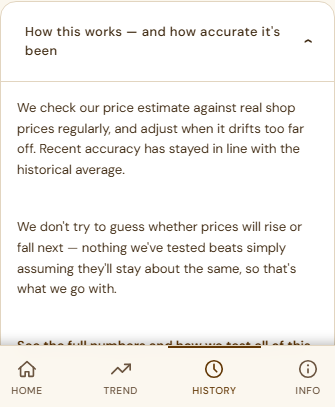
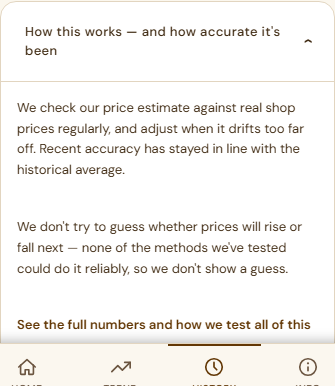
docs(audit): update rewritten-string table for the "usually" honesty fix
Follow-up to 1c26fff9 (i18n.js): reliabilityCoverage and
calibrationConfidenceAppend no longer say "usually" before a floored
fraction (it contradicts a fraction below 6/10), and
accSummaryDirectionOff no longer implies "assume no change" was the
tested baseline -- the direction gate's real comparison is "always
guess up" (ADR 019). Updates the audit doc's table for all three keys
and re-captures the three after-screenshots whose text changed.

diff --git a/docs/PLAIN_LANGUAGE_AUDIT.md b/docs/PLAIN_LANGUAGE_AUDIT.md
@@ -65,10 +65,11 @@ HI strings flagged for native review.**
 | `i18n.js` `footerBody` (EN+HI) | "...(worst case recently ~Xh; n=41, as of DATE)" | n= | same fix as `firstVisitText` |
 | `i18n.js` `volNoteElevated` (EN) | "Gold has been more volatile than usual lately — about ±₹X over 5 days." | volatility/volatile | "Gold has been swinging more than usual lately — about ±₹X over 5 days." |
 | `i18n.js` `volNoteCalm` (EN) | "Gold has been calmer than usual lately..." | volatility/volatile (key concept, adjacent to the elevated/calm pair) | "Gold has been steadier than usual lately..." |
-| `i18n.js` `reliabilityCoverage` (EN) | "Our estimated range has been right {pct}% of the time (checked {n} times)." | matches the `"coverage X% (n=Y)"` pattern | "Our estimated range has usually been right — about N times out of 10 so far." (floored, never overstates — see `fractionOutOf10Phrase`) |
+| `i18n.js` `reliabilityCoverage` (EN) | "Our estimated range has been right {pct}% of the time (checked {n} times)." | matches the `"coverage X% (n=Y)"` pattern | "Our estimated range has been right about N times out of 10 so far." (floored, never overstates — see `fractionOutOf10Phrase`) |
 | `i18n.js` `calibrationConfidenceAppend` (EN) | "...about {coverage}% of the time so far (n={n} weeks measured)." | n= | "...about N times out of 10 so far." (n dropped; exact % and n preserved on how-we-know.html's new "Band accuracy" section) |
 | `i18n.js` `errCouldntLoadMethodology` (EN) | "Couldn't load model details — check your connection and reload." | model | "Couldn't load this section — check your connection and reload." |
 | `i18n.js` `errCouldntLoadMethodology` (HI) | "मॉडल की जानकारी लोड नहीं हो पाई..." | model (मॉडल, loanword) + EN meaning changed | Removed, flagged HI-needs-native-review (falls back to reworded English) |
+| `i18n.js` `accSummaryDirectionOff` (EN) | "We don't try to guess whether prices will rise or fall next — nothing we've tested beats simply assuming they'll stay about the same, so that's what we go with." | (honesty fix, not a banned term) | "We don't try to guess whether prices will rise or fall next — none of the methods we've tested could do it reliably, so we don't show a guess." — the original wording implied "assume no change" was itself a tested, winning method; the real baseline the direction gate compares against is "always guess up" (ADR 019), not "assume no change" (that's the separate price-range method). Same correction class as the two rows below: don't let a rounding/summarizing rewrite assert something the underlying data doesn't support. |
 | `i18n.js` 37× `meth*` keys (EN+HI) | full methodology breakdown (verdict rule, next-day-range p-value, direction-signal internals, drift stats) | model, p-value, MAE, coverage, percentile-adjacent framing | Relocated verbatim to `how-we-know-strings.js` (its own exempt catalogue) — same wording, same numbers, just off the main page. Main page's accordion body now renders 2-3 short plain sentences (`accSummaryIntro`/`accSummaryDirectionOff`, reusing the already-plain `reliabilityDriftOnTrack/Watch/Retrain`) plus a link |
 | `README.md` "How fresh the data is" bullet | "...typical gap between updates was 4.6 (n=41, as of DATE) hours." | n= | "...typical gap between updates was 4.6 (as of DATE) hours." — `\|n=n` modifier dropped from the METRIC marker |
 | `README.md` "A likely range, not just one number" bullet | "...it has actually contained the real rate 70.9% (n=86, 95% CI [60.6%, 79.5%], as of DATE) of the time..." | n=, CI | "...it has actually landed inside the range about 7 times out of 10 so far..." via the new `frac10` METRIC format, plus a link to How we know for the exact numbers |
@@ -165,3 +166,27 @@ Both independently implement the identical rounding rule (floor to the
 nearest 10%, e.g. 78% → "7 times out of 10", never "8") since one runs in a
 browser and the other in a docs-build script with no runtime in common; kept
 in sync by policy (this document), not shared code.
+
+## Follow-up correction (2026-09-23, same day) — plain wording can assert too much, not just too little
+
+A second pass caught two ways the plain-language rewrite itself had drifted
+from what the data actually supports — the opposite failure mode from
+jargon, but still dishonest:
+
+- `reliabilityCoverage` and `calibrationConfidenceAppend` said the range/band
+  has "**usually** been right — about N times out of 10". Below a 6/10
+  fraction, "usually" directly contradicts the number sitting right next to
+  it (a range that's right 4 times out of 10 is not "usually" right). Fixed
+  by dropping "usually" — the fraction is left to speak for itself,
+  correct at every value from 0 to 10.
+- `accSummaryDirectionOff` said "nothing we've tested beats **simply
+  assuming they'll stay about the same**" — but the direction gate's actual
+  comparison baseline is "always guess up" (ADR 019), not "assume no
+  change" (that's the separate next-day-range method, a different part of
+  the page). The plain summary had quietly swapped in the wrong baseline
+  while simplifying. Fixed to say "none of the methods we've tested could do
+  it reliably" — true regardless of which specific baseline is meant, and
+  doesn't claim a comparison that wasn't actually made.
+
+Screenshots `06-accordion-opened-375-after.png`, `08-model-signal-375-after.png`,
+and `10-banner-mocked-375-after.png` were re-captured after this fix.
